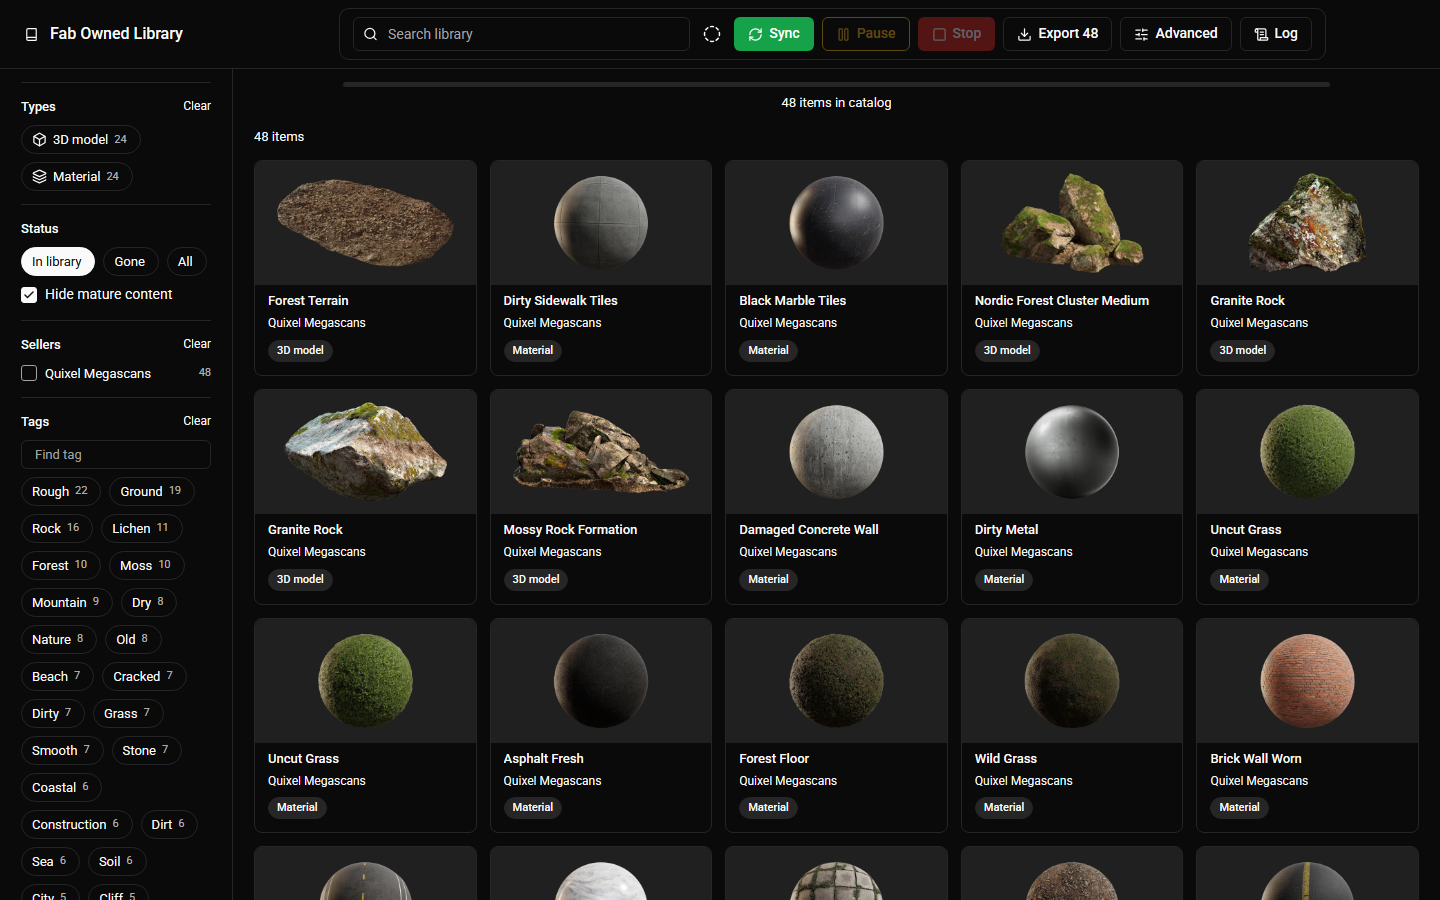
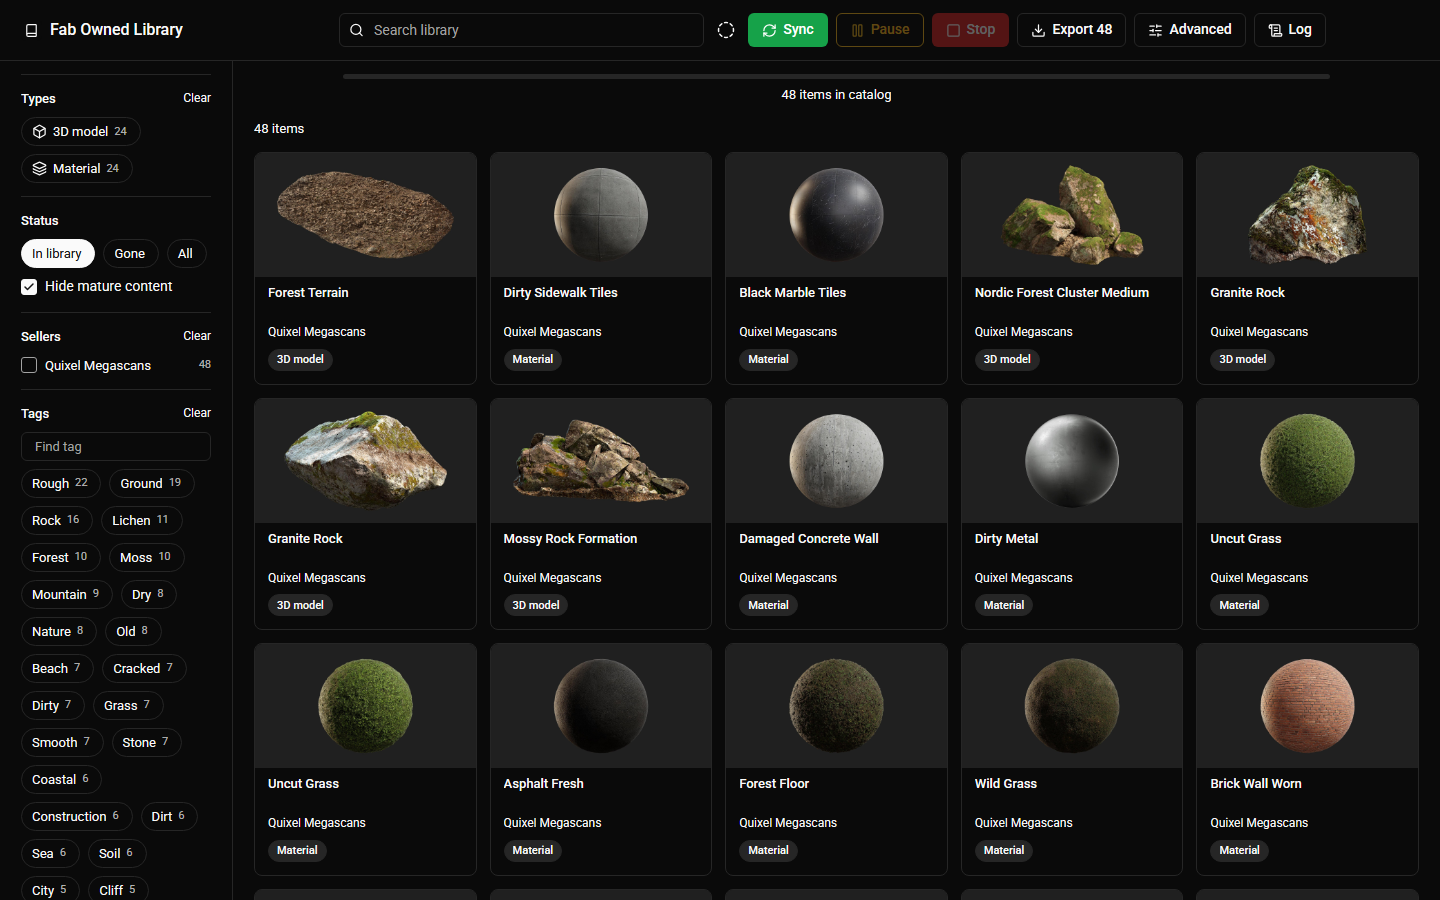
fix(library): card and header layout polish
Pill row aligned, catalog buttons under label, no panel box.

diff --git a/library/library.css b/library/library.css
@@ -63,7 +63,7 @@ svg { fill: none; }
   grid-template-columns: calc(var(--sidebar) - var(--s4)) 1fr;
   align-items: center;
   gap: var(--s3);
-  padding: var(--s2) var(--s4);
+  padding: var(--s3) var(--s4);
   background: var(--background);
   border-bottom: 1px solid var(--border);
 }
@@ -74,9 +74,6 @@ svg { fill: none; }
   justify-content: center;
   gap: var(--s3);
   width: min(100%, var(--column));
-  padding: var(--s2) var(--s3);
-  border: 1px solid var(--border);
-  border-radius: calc(var(--radius) + 4px);
 }
 .title { display: flex; align-items: center; gap: var(--s2); margin: 0; font-size: 16px; font-weight: 500; white-space: nowrap; }
 .logo { width: 21px; height: 21px; border-radius: var(--s1); }
@@ -109,10 +106,10 @@ body[data-phase="syncing"] .phase-icon, body[data-phase="rechecking"] .phase-ico
 }
 .advanced-bar[hidden] { display: none; }
 .advanced-bar .field { width: 144px; }
-.advanced-bar .field.grow { flex: 1; width: auto; }
+.advanced-bar .field.grow { flex: 0 0 auto; width: auto; }
 .field-label { font-size: 12px; font-weight: 500; line-height: 1; }
 .control { height: var(--s5); }
-.control-row { display: flex; justify-content: flex-end; gap: var(--s2); }
+.control-row { display: flex; gap: var(--s2); }
 .button.danger { color: var(--red); border-color: hsl(0 84% 60% / 0.5); }
 .button.danger:hover { background: hsl(0 84% 60% / 0.12); }
 
@@ -333,6 +330,8 @@ body[data-phase="stopped"] .progress-indicator { background: var(--red); }
 
 .grid { display: grid; grid-template-columns: repeat(auto-fill, minmax(210px, 1fr)); gap: var(--s3); }
 .card {
+  display: flex;
+  flex-direction: column;
   overflow: hidden;
   border: 1px solid var(--border);
   border-radius: calc(var(--radius) + 2px);
@@ -345,10 +344,10 @@ body[data-phase="stopped"] .progress-indicator { background: var(--red); }
 .thumb { display: grid; place-items: center; aspect-ratio: 16 / 9; background: var(--muted); }
 .thumb img { width: 100%; height: 100%; object-fit: cover; display: block; }
 .thumb svg { width: 21px; height: 21px; stroke: var(--muted-foreground); }
-.card-body { padding: var(--s2) var(--s3) var(--s3); }
-.card-title { font-size: 13px; font-weight: 500; line-height: 1.3; overflow: hidden; display: -webkit-box; -webkit-line-clamp: 2; -webkit-box-orient: vertical; }
+.card-body { display: flex; flex: 1; flex-direction: column; padding: var(--s2) var(--s3) var(--s3); }
+.card-title { min-height: 2.6em; font-size: 13px; font-weight: 500; line-height: 1.3; overflow: hidden; display: -webkit-box; -webkit-line-clamp: 2; -webkit-box-orient: vertical; }
 .card-seller { margin-top: var(--s1); font-size: 12px; line-height: 1.4; overflow: hidden; white-space: nowrap; text-overflow: ellipsis; }
-.card-pills { display: flex; flex-wrap: wrap; gap: var(--s1); margin-top: var(--s2); }
+.card-pills { display: flex; flex-wrap: wrap; gap: var(--s1); margin-top: auto; padding-top: var(--s2); }
 .pill {
   display: inline-flex;
   align-items: center;
